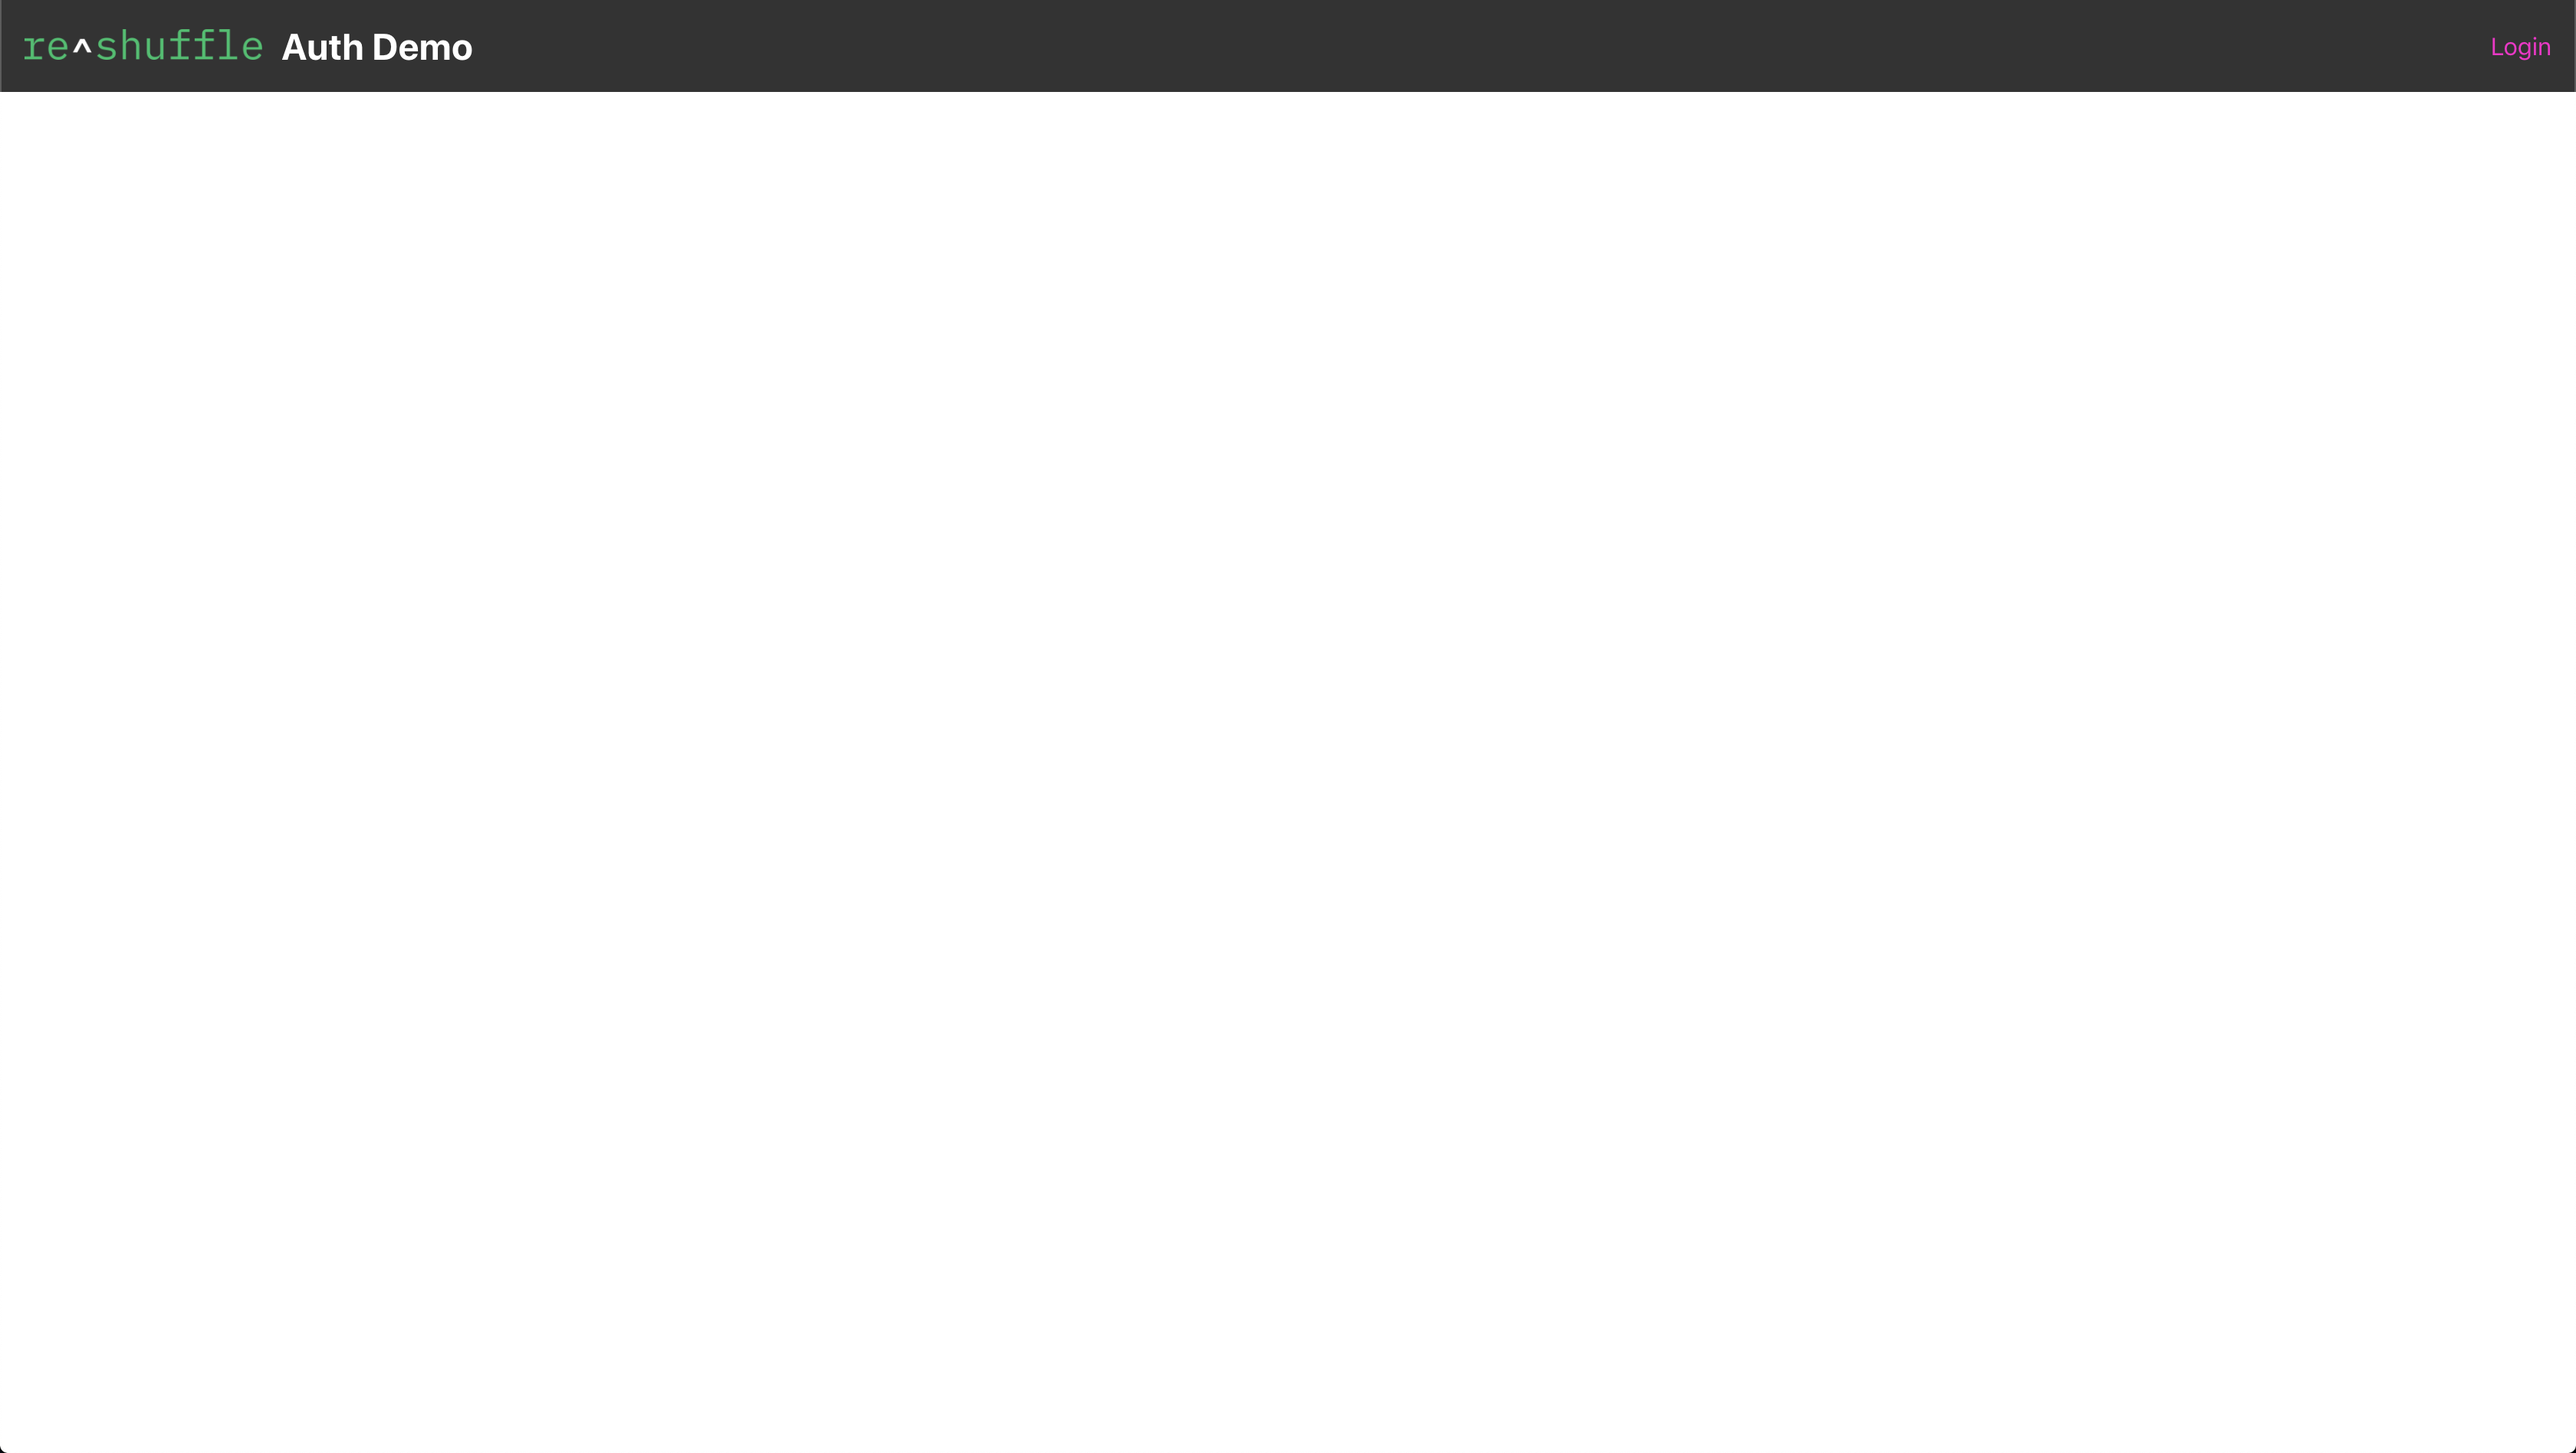
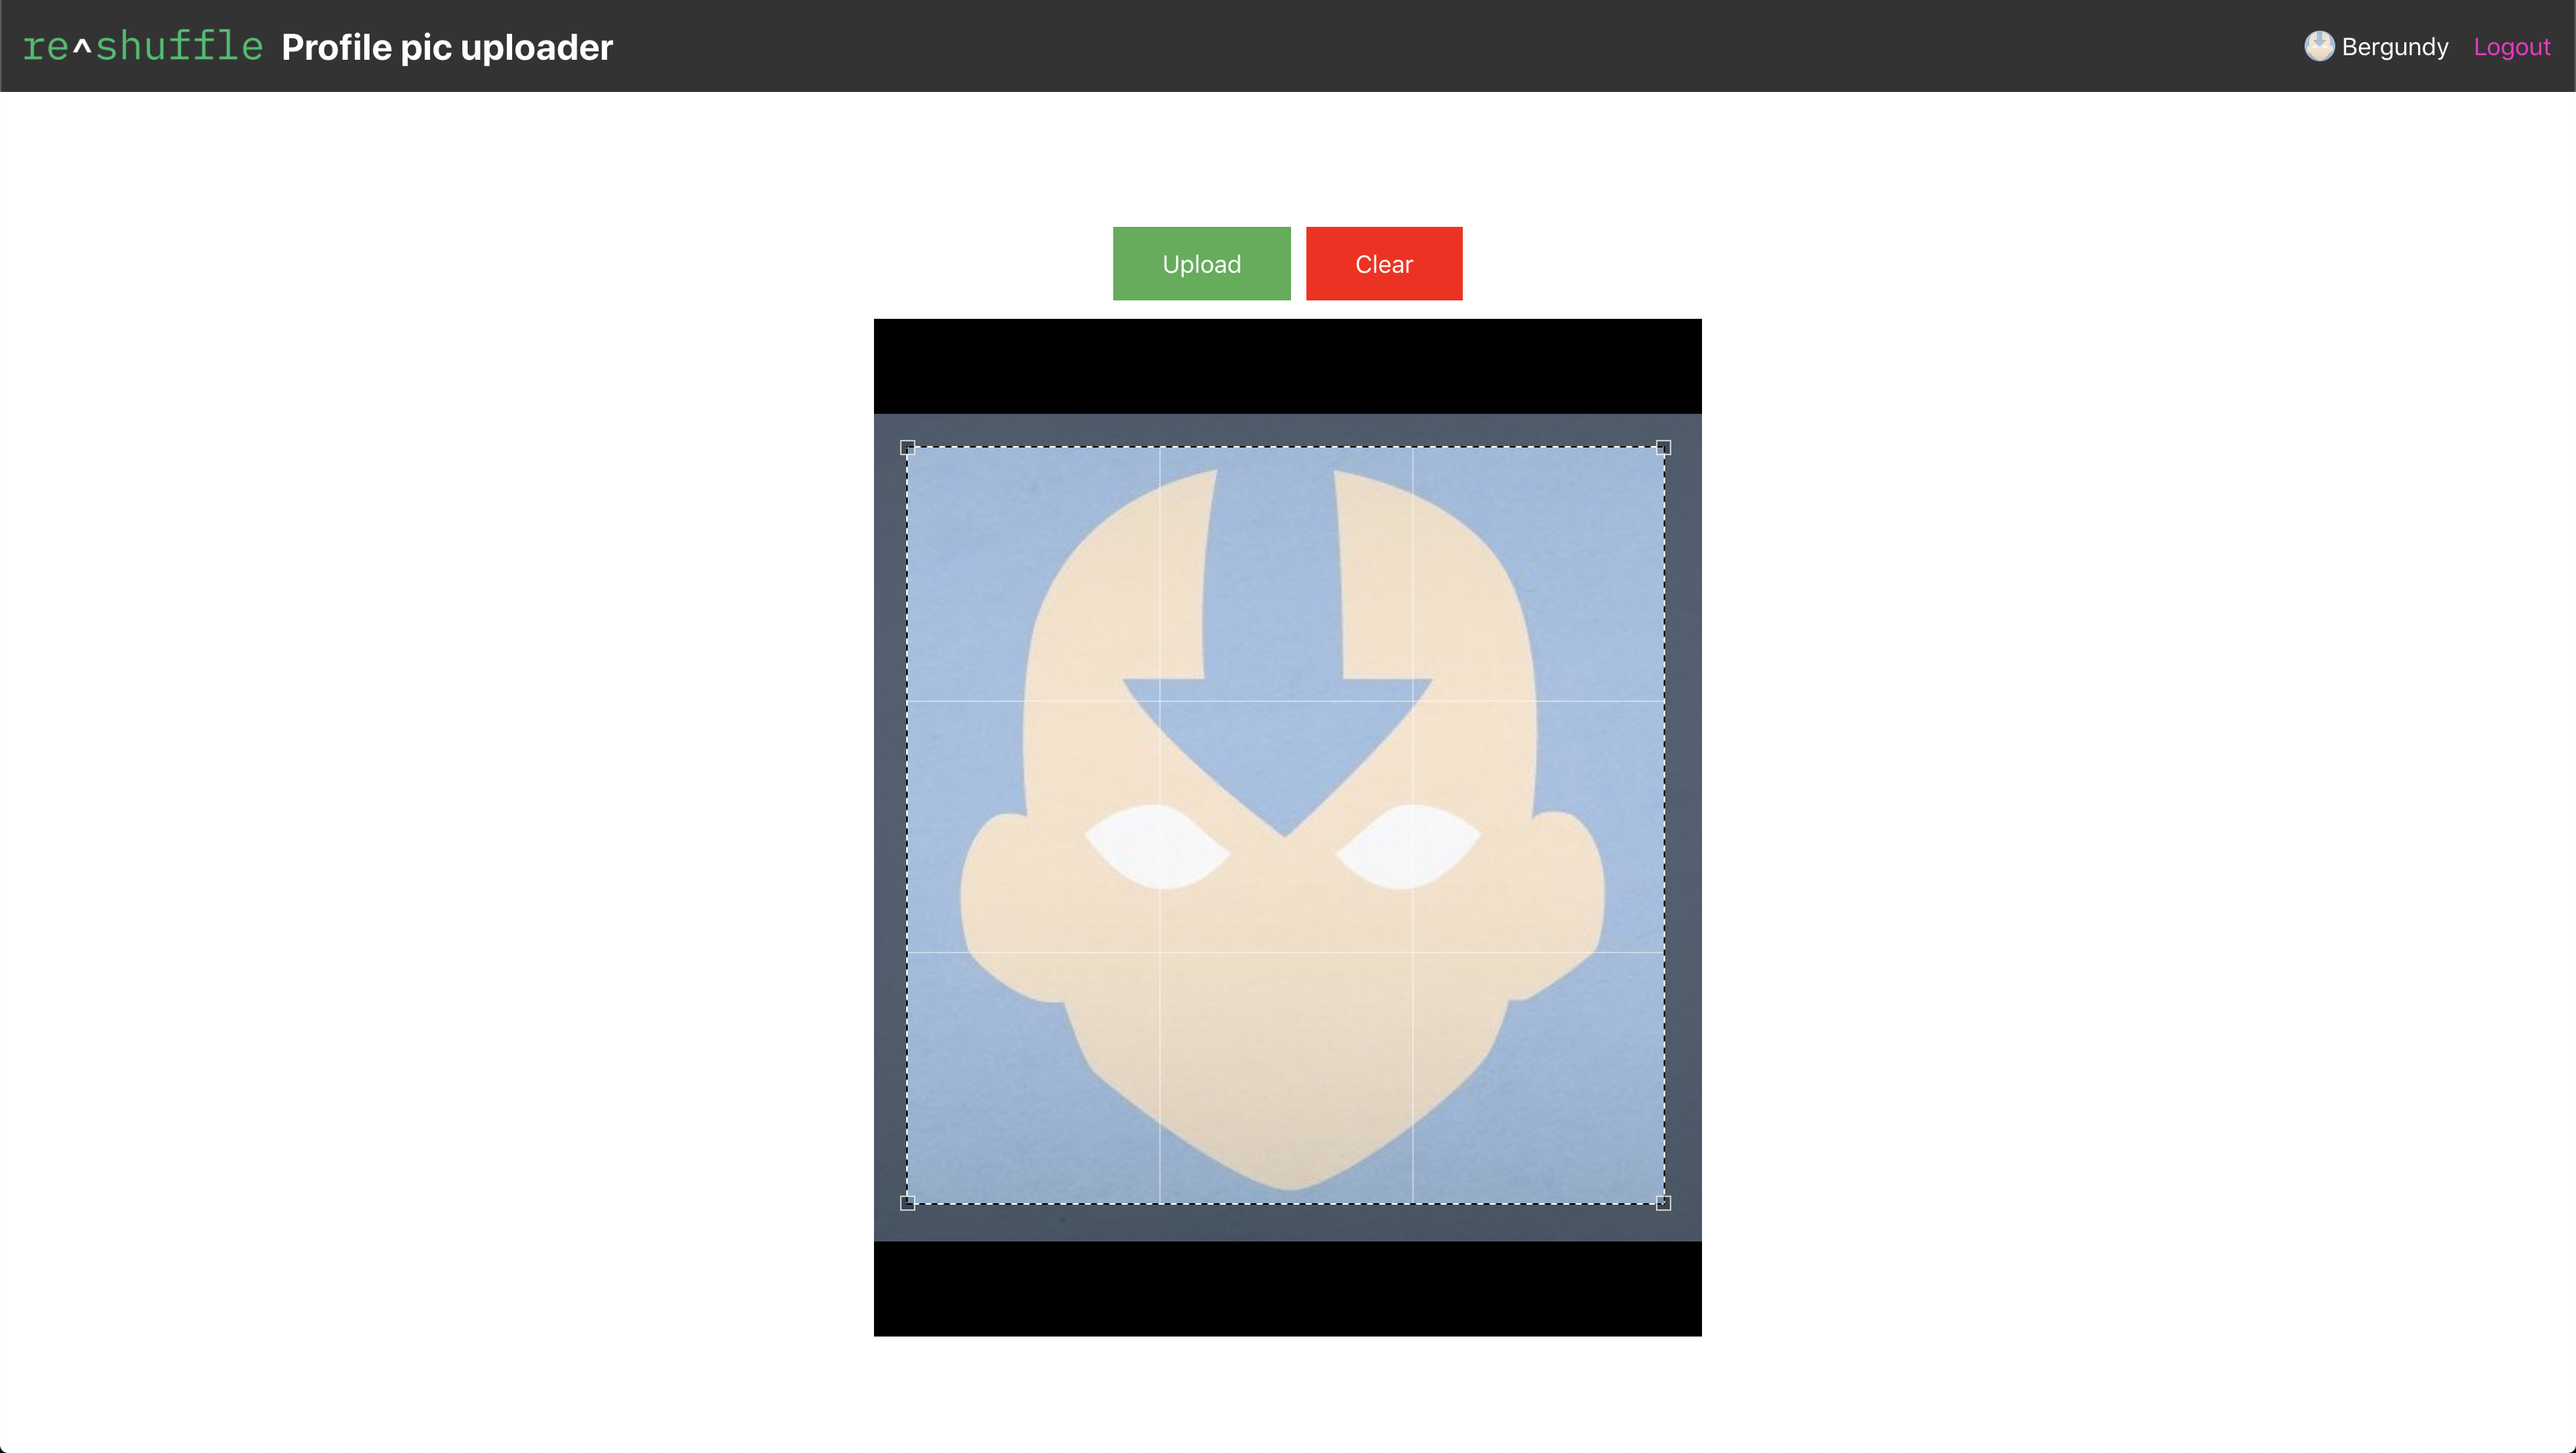
Prepare for PR

diff --git a/src/Upload.js b/src/Upload.js
@@ -1,30 +1,55 @@
 import '@reshuffle/code-transform/macro';
 import React, { useState, useEffect, useLayoutEffect, useCallback } from 'react';
 import { useDropzone } from 'react-dropzone';
+import clsx from 'clsx';
 import ReactCrop from 'react-image-crop';
-import 'react-image-crop/dist/ReactCrop.css';
 import { useFileUpload } from '@reshuffle/react-storage';
+import 'react-image-crop/dist/ReactCrop.css';
+import './Upload.css';
 import { setProfilePic } from '../backend/users';
 
 function getCroppedImg(image, crop, { width, height }) {
-  const canvas = document.createElement('canvas');
   const scaleX = image.naturalWidth / image.width;
   const scaleY = image.naturalHeight / image.height;
+  const scaleRatio = Math.max(scaleX, scaleY);
+  const edgeX = (scaleRatio * image.width - image.naturalWidth) / 2;
+  const edgeY = (scaleRatio * image.height - image.naturalHeight) / 2;
+  const scaledCropX = crop.x * scaleRatio;
+  const scaledCropY = crop.y * scaleRatio;
+  const scaledWidth = crop.width * scaleRatio;
+  const scaledHeight = crop.height * scaleRatio;
+  const scaledEndX = scaledCropX + scaledWidth;
+  const scaledEndY = scaledCropY + scaledHeight;
+
+  const offsetX = Math.min(Math.max(scaledCropX - edgeX, 0), image.naturalWidth);
+  const cropEndX = Math.min(Math.max(scaledEndX - edgeX, 0), image.naturalWidth);
+
+  const offsetY = Math.min(Math.max(scaledCropY - edgeY, 0), image.naturalHeight);
+  const cropEndY = Math.min(Math.max(scaledEndY - edgeY, 0), image.naturalHeight);
+
+  const cropWidthOnImage = cropEndX - offsetX;
+  const targetWidth = cropWidthOnImage / scaledWidth * width;
+  const targetOffsetX = scaledEndX >= image.naturalWidth + edgeX ? 0 : width - targetWidth;
+  const cropHeightOnImage = cropEndY - offsetY;
+  const targetHeight = cropHeightOnImage / scaledHeight * height;
+  const targetOffsetY = scaledEndY >= image.naturalHeight + edgeY ? 0 : height - targetHeight;
+
+  const canvas = document.createElement('canvas');
+
   canvas.width = width;
   canvas.height = height;
   const ctx = canvas.getContext('2d');
-  console.log(crop);
 
   ctx.drawImage(
     image,
-    crop.x * scaleX,
-    crop.y * scaleY,
-    crop.width * scaleX,
-    crop.height * scaleY,
-    0,
-    0,
-    width,
-    height
+    offsetX,
+    offsetY,
+    cropWidthOnImage,
+    cropHeightOnImage,
+    targetOffsetX,
+    targetOffsetY,
+    targetWidth,
+    targetHeight,
   );
 
   return new Promise((resolve, reject) => {
@@ -61,7 +86,17 @@ export default ({ setDisplayProfilePic }) => {
     }
   }, [setSrc]);
 
-  const { getRootProps, getInputProps, isDragActive } = useDropzone({ onDrop: onSelectFile, multiple: false });
+  const {
+    getRootProps,
+    getInputProps,
+    isDragActive,
+    isDragAccept,
+    isDragReject,
+  } = useDropzone({
+    onDrop: onSelectFile,
+    multiple: false,
+    accept: 'image/*',
+  });
 
   useLayoutEffect(() => {
     (async () => {
@@ -85,10 +120,14 @@ export default ({ setDisplayProfilePic }) => {
   }, [status, uploads, setDisplayProfilePic, submittedToken]);
 
   return (
-    <>
+    <div className='upload'>
       {status === 'error' && <h3>Upload failed</h3>}
       {src ? (
         <>
+          <div className='actions'>
+            <input type='button' disabled={!blob || status === 'uploading'} onClick={uploadImage} value='Upload' />
+            <input type='button' onClick={() => setSrc()} value='Clear' />
+          </div>
           <ReactCrop
             src={src}
             crop={crop}
@@ -99,21 +138,21 @@ export default ({ setDisplayProfilePic }) => {
             onChange={setCrop}
             onComplete={setCrop}
           />
-          <input type='button' disabled={!blob || status === 'uploading'} onClick={uploadImage} value='Upload' />
-          <input type='button' onClick={() => setSrc()} value='Clear' />
         </>
       ) : (
-        <div {...getRootProps()}>
+        <div className={clsx('dropzone', isDragActive && 'active', isDragAccept && 'accept', isDragReject && 'reject')} {...getRootProps()}>
           <input {...getInputProps()} />
           {
             src
               ? null
-              : isDragActive
-                ? <p>Drop the files here ...</p>
-                : <p>Drag 'n' drop some files here, or click to select files</p>
+              : isDragReject
+                ? <h2>Please upload only 1 image file</h2>
+                : isDragActive
+                  ? <h2>Drop the files here ...</h2>
+                  : <h2>Drag 'n' drop some files here, or click to select files</h2>
           }
         </div>
     )}
-    </>
+    </div>
   );
 };

diff --git a/src/Upload.css b/src/Upload.css
@@ -1,0 +1,75 @@
+.upload {
+    height: 100%;
+    display: flex;
+    align-items: center;
+    justify-content: center;
+    flex-direction: column;
+}
+
+.dropzone {
+    margin: 8px;
+    min-height: 300px;
+    min-width: 80%;
+    flex: 1;
+    display: flex;
+    align-items: center;
+    justify-content: center;
+    padding: 20px;
+    border-width: 2;
+    border-radius: 2;
+    border-color: #eeeeee;
+    border-style: dashed;
+    background-color: #fafafa;
+    color: #bdbdbd;
+    outline: none;
+    transition: border .24s ease-in-out;
+}
+
+.dropzone.active {
+    border-color: #2196f3;
+}
+
+.dropzone.accept {
+    border-color: #00e676;
+    color: #00e676;
+}
+
+.dropzone.reject {
+    border-color: #ff1744;
+    color: #ff1744;
+}
+
+.actions {
+    margin: 8px;
+}
+
+.actions input + input {
+    margin-left: 8px;
+}
+
+.actions input[value=Clear] {
+    background-color: red;
+}
+
+.actions input {
+    background-color: #4caf50;
+    border: none;
+    color: white;
+    padding: 15px 32px;
+    text-align: center;
+    text-decoration: none;
+    display: inline-block;
+    font-size: 16px;
+    margin: 4px 2px;
+    cursor: pointer;
+}
+
+.ReactCrop {
+    max-width: 90%;
+}
+
+.ReactCrop img {
+    object-fit: contain;
+    width: 100%;
+    height: 70vh;
+}

diff --git a/public/index.html b/public/index.html
@@ -19,7 +19,7 @@
       work correctly both with client-side routing and a non-root public URL.
       Learn how to configure a non-root public URL by running `npm run build`.
     -->
-    <title>Reshuffle Auth Demo</title>
+    <title>Reshuffle Profile pic uploader</title>
   </head>
   <body>
     <noscript>You need to enable JavaScript to run this app.</noscript>

diff --git a/src/Main.js b/src/Main.js
@@ -51,9 +51,9 @@ export default function Main() {
           )}
         </div>
       </header>
-      <section>
+      <main>
         <Upload setDisplayProfilePic={setProfilePic} />
-      </section>
+      </main>
     </>
   );
 }

diff --git a/src/index.css b/src/index.css
@@ -25,3 +25,9 @@ code {
     "Courier New",
     monospace;
 }
+
+#root {
+  height: 100vh;
+  display: flex;
+  flex-direction: column;
+}

diff --git a/src/Main.css b/src/Main.css
@@ -42,3 +42,7 @@ header {
     margin-right: 4px;
     background-size: cover;
 }
+
+main {
+    flex-grow: 1;
+}

diff --git a/README.md b/README.md
@@ -2,11 +2,13 @@ This is a [Reshuffle](https://reshuffle.com/) template.
 
 ## About
 
-A starting point for creating an authentication enabled app with Reshuffle.
+A starting point for storing user profile pictures with Reshuffle Storage.
+
+Uses [react-dropzone](https://www.npmjs.com/package/react-dropzone) for Drag n' drop uploads and [react-image-crop](https://www.npmjs.com/package/react-image-crop) for cropping and scaling images in the browser.
 
 This project was bootstrapped with [Create React App](https://github.com/facebook/create-react-app).
 
-More info on the Reshuffle [dev site](https://dev.reshuffle.app/identity).
+More info on the Reshuffle [dev site](https://dev.reshuffle.app/storage).
 
 ## Screenshots
 
